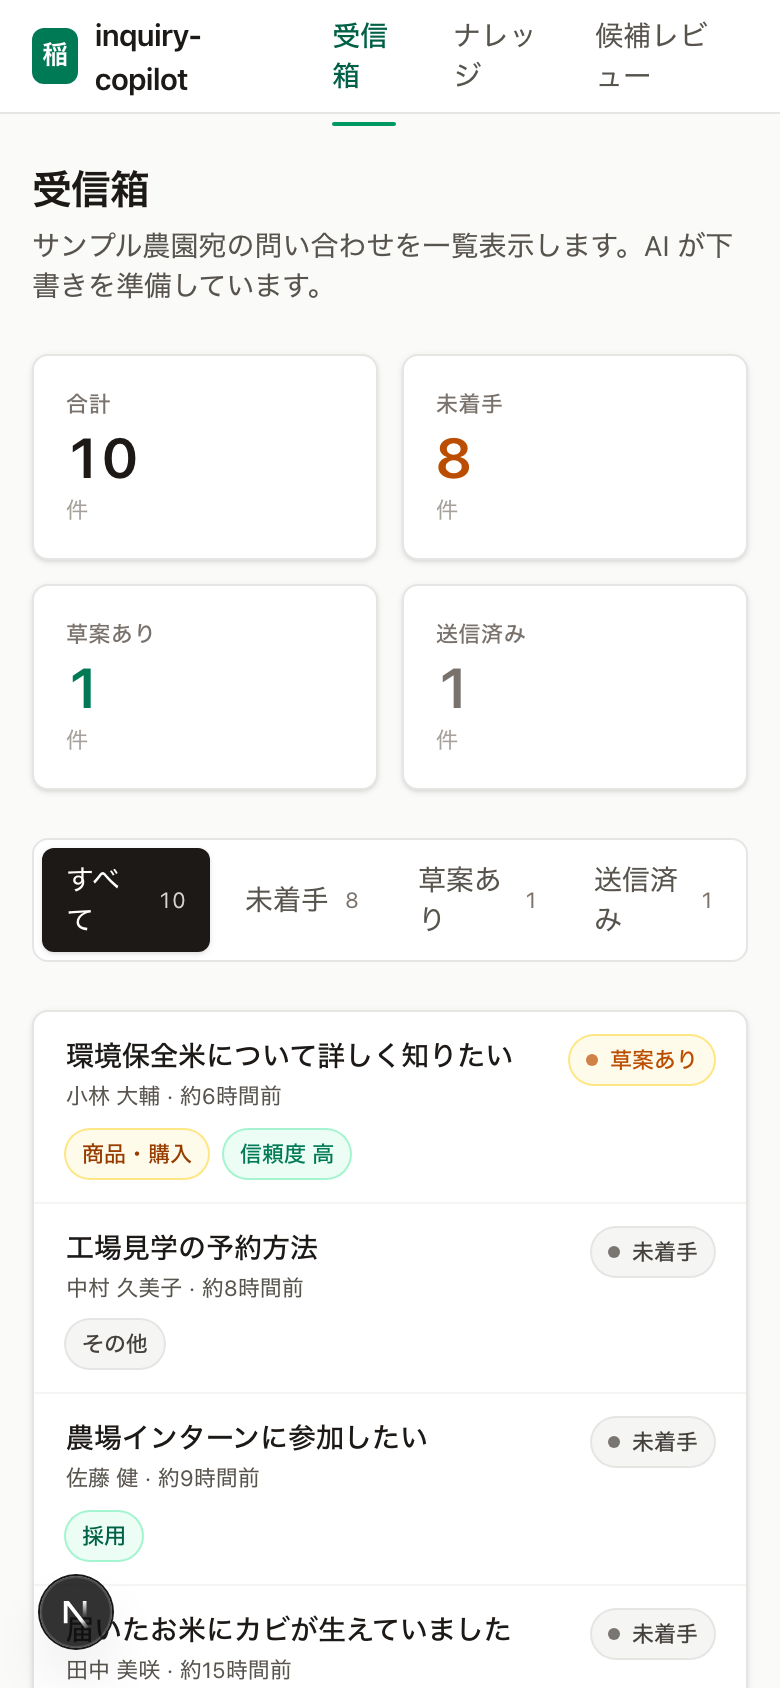
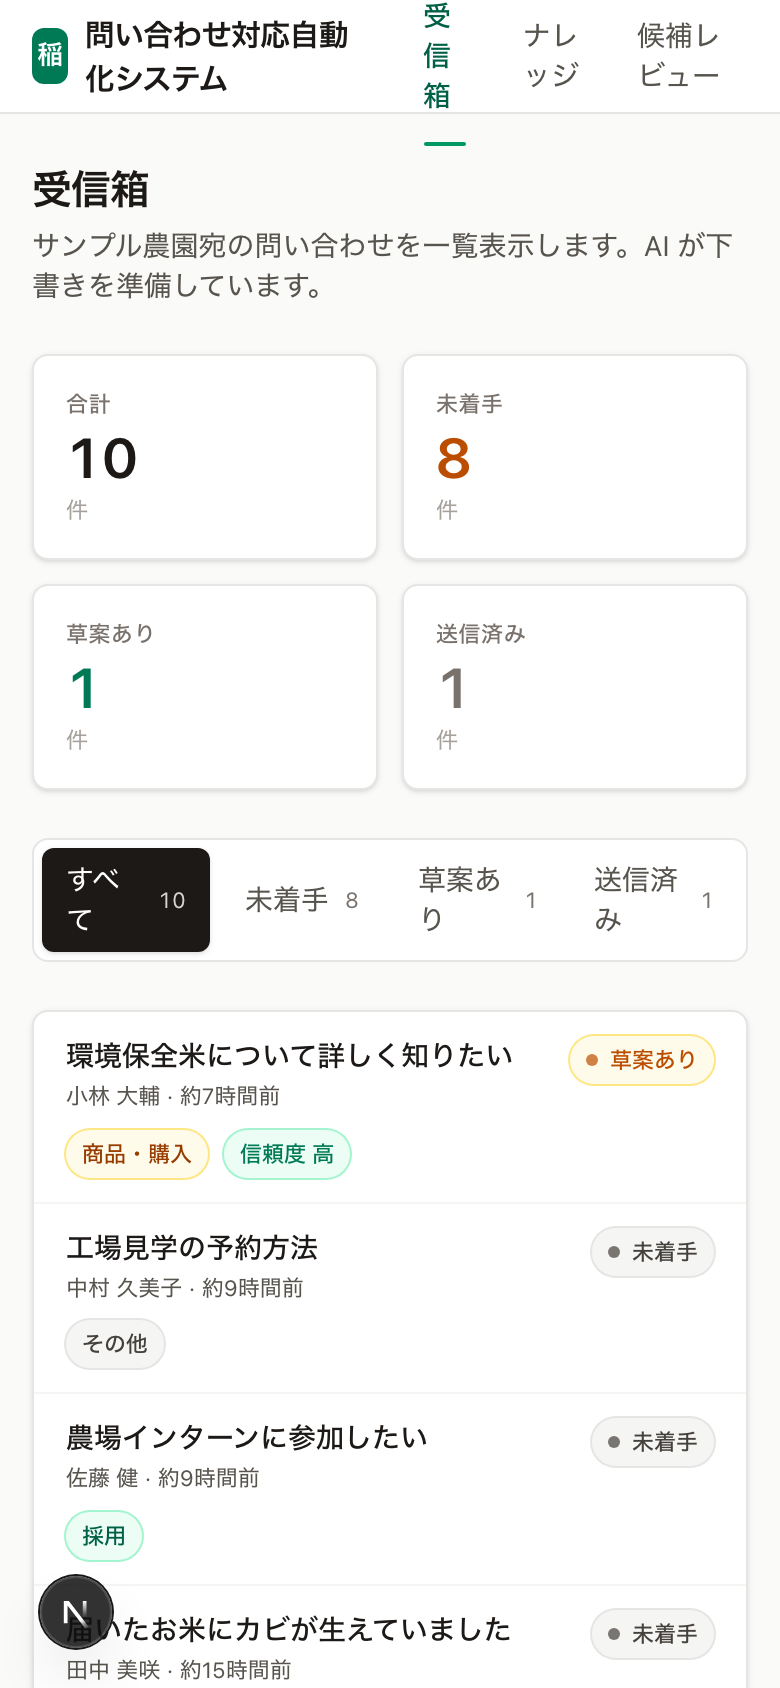
表示名を「問い合わせ対応自動化システム」に変更
UI ヘッダー / metadata title / OVERVIEW タイトル / HANDOFF を更新。
プロジェクト名（パス・リポ名・package name）は inquiry-copilot のまま据え置き。

diff --git a/src/components/AppHeader.tsx b/src/components/AppHeader.tsx
@@ -18,7 +18,7 @@ export const AppHeader = () => {
         <Link
           href="/"
           className="flex items-center gap-2 text-stone-900 transition-colors hover:text-emerald-700 focus-visible:outline-none focus-visible:ring-2 focus-visible:ring-emerald-500 focus-visible:ring-offset-2 rounded-sm"
-          aria-label="inquiry-copilot ホーム"
+          aria-label="問い合わせ対応自動化システム ホーム"
         >
           <span
             aria-hidden
@@ -27,7 +27,7 @@ export const AppHeader = () => {
             稲
           </span>
           <span className="text-[15px] font-semibold tracking-tight">
-            inquiry-copilot
+            問い合わせ対応自動化システム
           </span>
           <span className="hidden text-[11px] text-stone-500 md:inline">
             サンプル農園

diff --git a/src/app/layout.tsx b/src/app/layout.tsx
@@ -3,7 +3,7 @@ import "./globals.css";
 import { AppHeader } from "@/components/AppHeader";
 
 export const metadata: Metadata = {
-  title: "inquiry-copilot — サンプル農園",
+  title: "問い合わせ対応自動化システム — サンプル農園",
   description:
     "サンプル農園の問い合わせメール返信支援ツール。AIが草案を生成し、人間が編集してワンクリックで送信できる。",
 };

diff --git a/HANDOFF.md b/HANDOFF.md
@@ -1,4 +1,4 @@
-# inquiry-copilot 引き継ぎ
+# 問い合わせ対応自動化システム 引き継ぎ
 
 ## 何をするシステムか
 サンプル農園の問い合わせメールに対して、AIがナレッジベースから返信草案を生成し、人間が編集→ワンクリック送信する仕組み。送信内容を学習してナレッジ候補を提案する自動更新ループ付き。

diff --git a/docs/OVERVIEW.md b/docs/OVERVIEW.md
@@ -1,4 +1,4 @@
-# inquiry-copilot — システム概要
+# 問い合わせ対応自動化システム — システム概要
 
 > **問い合わせメール対応を、人間の判断を残したまま 5 分の 1 に圧縮する。**
 > AI が下書き、人がワンクリックで送信。送ったやり取りからナレッジが自動で育つ。
